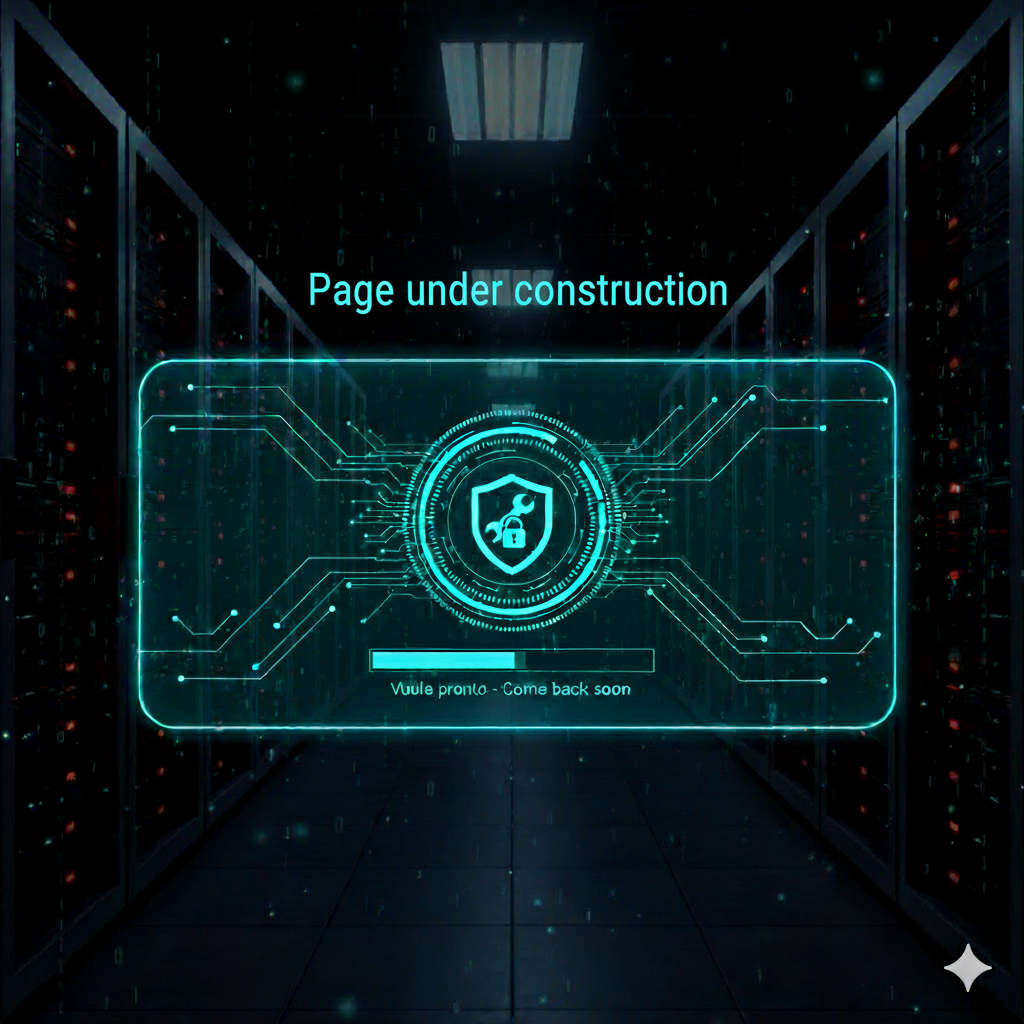
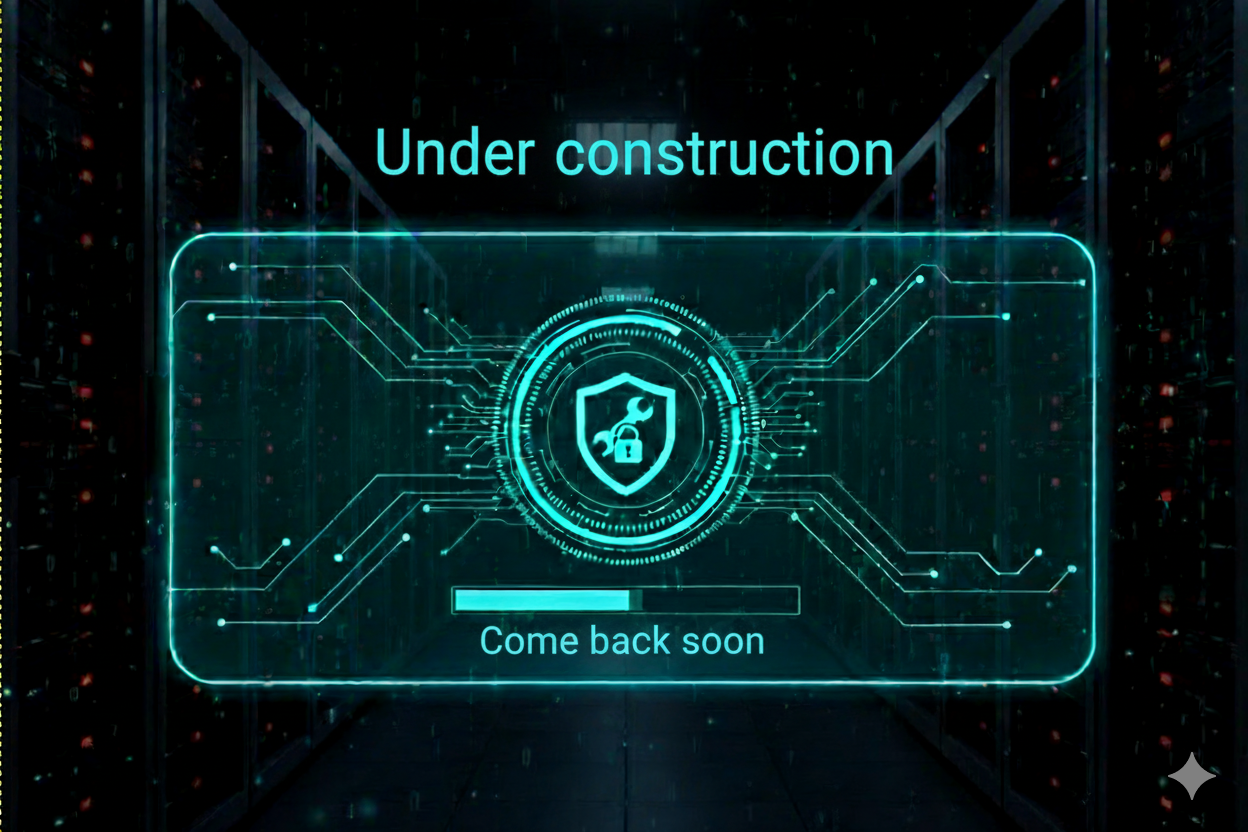
.

diff --git a/index.md b/index.md
@@ -1,7 +1,7 @@
 ---
 layout: page
-title: Home
+title: 
 sidebar_link: true
 ---
 
-![alt text](image.png)
+![alt text](image-1.png)
